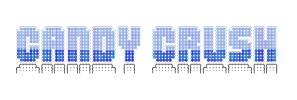
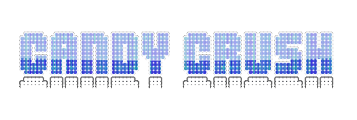
Xong phan in board roi nhe

diff --git a/src/main/DrawBoard.java b/src/main/DrawBoard.java
@@ -8,22 +8,69 @@ import java.awt.Color;
 import java.awt.Font;
 import java.awt.Graphics;
 import java.awt.image.BufferedImage;
+import java.util.ArrayList;
+import java.util.List;
+import java.util.Random;
 
 public class DrawBoard extends JPanel{
-	private ImageIcon BG;
+	private ImageIcon BG,Candy;
 	private ImageIcon tittle;
+	private int borderLocationX = 45;
+	private int borderLocationY = 150;
+	private int CandyX = 61;
+	private int CandyY = 165;
+	private static int CandyNumber = 25;
+	// create random variable for the string name
+	Random random = new Random();
+	// declare string name
+	List<String> Gemname = new ArrayList<String>();
+	// input gems name
+	public void Gemsname(){
+		String gem1 = new String("Gblue.png");
+		String gem2 = new String("Gdiamond.png");
+		String gem3 = new String("Ggreen.png");
+		String gem4 = new String("Gred.png");
+		String gem5 = new String("Gyellow.png");
+		Gemname.add(gem1);
+		Gemname.add(gem2);
+		Gemname.add(gem3);
+		Gemname.add(gem4);
+		Gemname.add(gem5);
+		Gemname.get(0);
+		System.out.println(Gemname.get(0));
+	}
 	JLabel Score = new JLabel();
 	protected void paintComponent(Graphics g) {
-		// TODO Auto-generated method stub
 		super.paintComponent(g); 
+		Gemsname();
 		// draw BG
 		BG = new ImageIcon("BG1.jpg");
 		BG.paintIcon(this, g, 0, 0);
 		// draw tittle
 		tittle = new ImageIcon("TittleImage.png");
-		tittle.paintIcon(this, g, 145, 5);
-		// draw Score
+		tittle.paintIcon(this, g, 125, 20);
+		// draw gameplay area
+		for(int counter = 0; counter<5;counter++){
+			for(int i = 0; i < 5; i++){
 		g.setColor(Color.WHITE);
-		g.drawString("Score: ", 10, 100);
+		g.drawRect(borderLocationX, borderLocationY, 100, 100);
+		g.drawRect(borderLocationX+1, borderLocationY+1, 100, 100);
+		borderLocationX = borderLocationX + 100;
+		}
+			borderLocationX = 45;
+			borderLocationY = borderLocationY + 100;
+		}
+		// draw the Candy
+		for(int k = 0; k < 5 ; k++ ){
+			for(int k2 = 0; k2 < 5; k2++){
+				int rand = random.nextInt(5) + 0;
+				Candy = new ImageIcon(Gemname.get(rand).toString());
+				Candy.paintIcon(this, g, CandyX, CandyY);
+				CandyX = CandyX + 100;
+			}
+			CandyX = 61;
+			CandyY = CandyY + 100;
+		}
+		
 	}
 }

diff --git a/src/main/mainCC.java b/src/main/mainCC.java
@@ -7,7 +7,7 @@ import javax.swing.JLabel;
 
 
 public class mainCC {
-	public static final int WIDTH = 600, HEIGHT = 800;
+	public static final int WIDTH = 600, HEIGHT = 750;
 	public mainCC(){
 		JFrame frame = new JFrame("Candy Crush");
 		DrawBoard draw = new DrawBoard();
